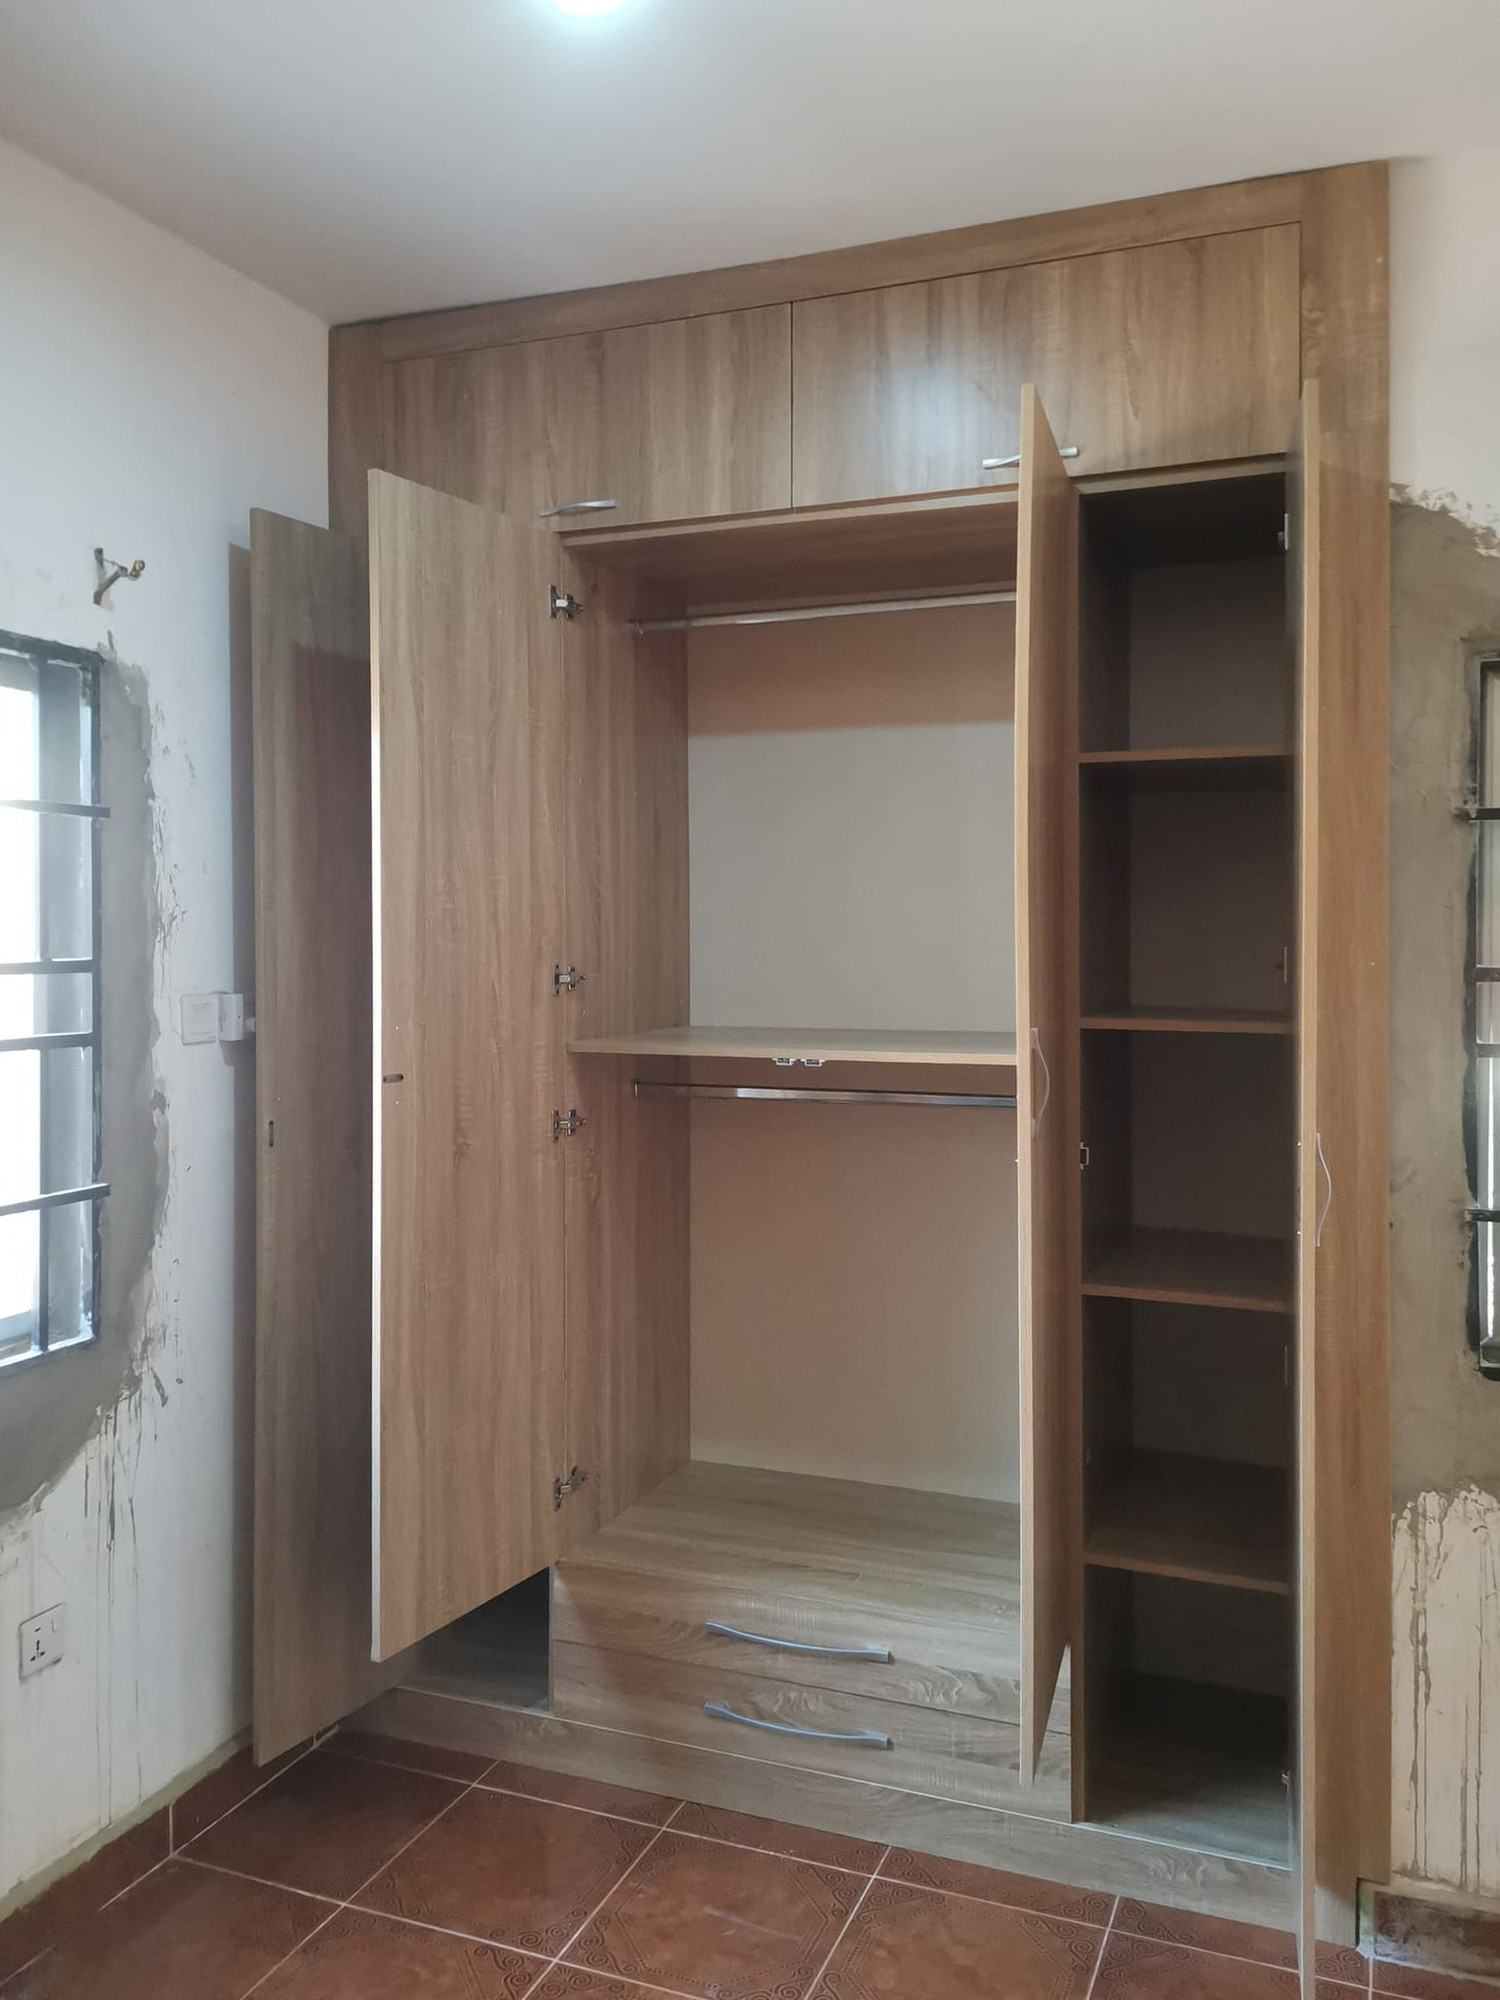
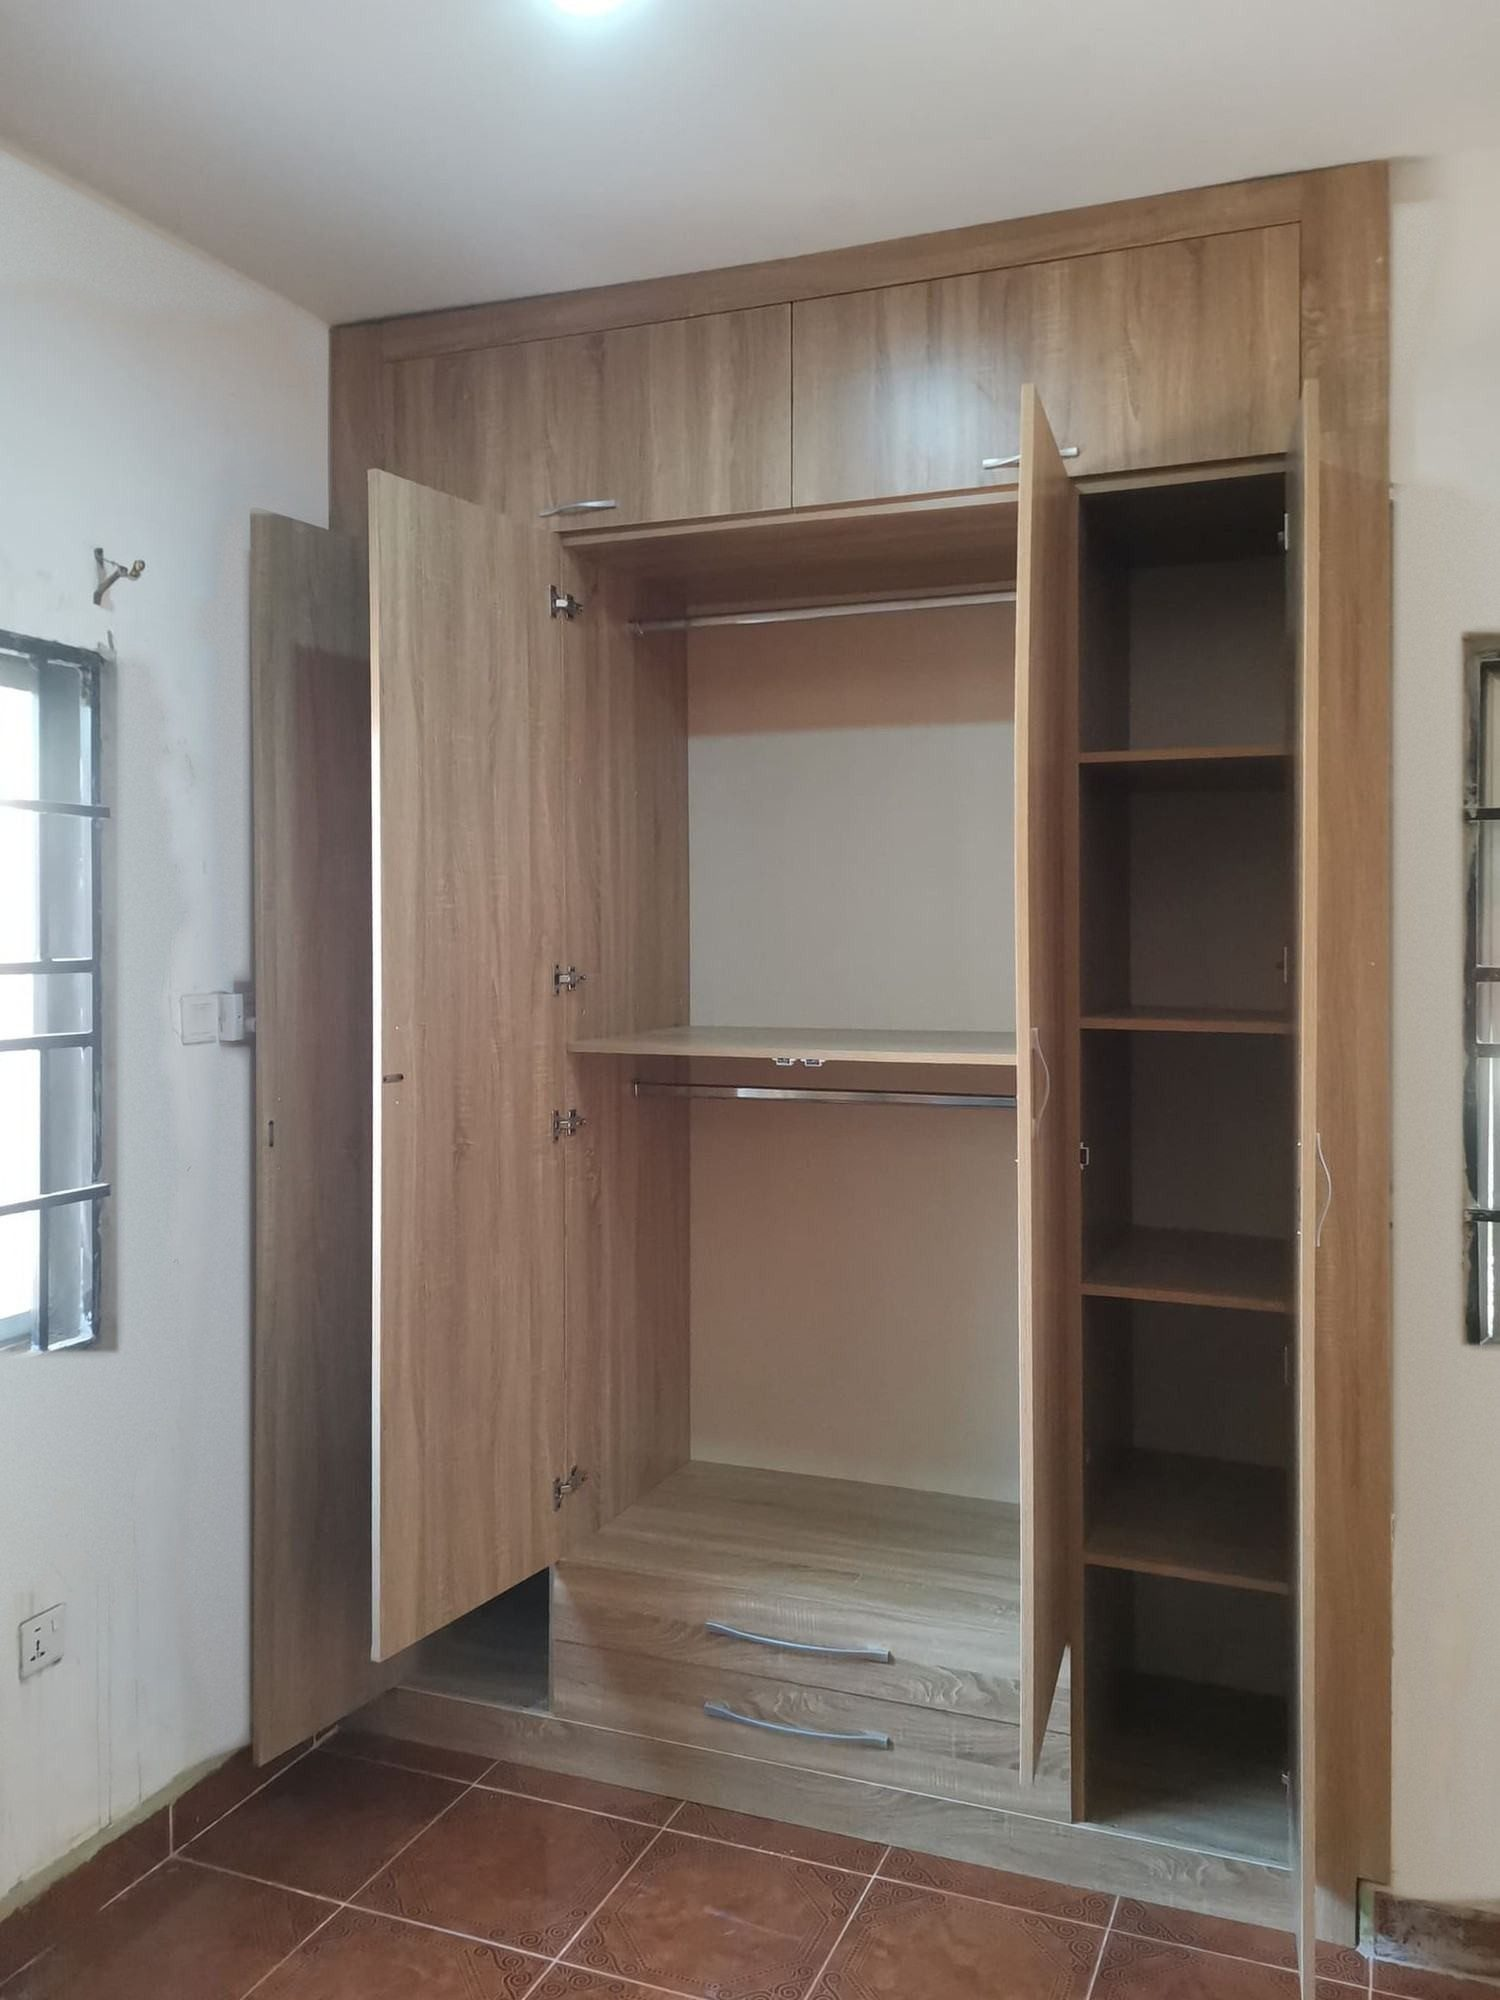
Use the repainted Agbogba wardrobe photo on the site

diff --git a/docs/design-review-plan.md b/docs/design-review-plan.md
@@ -85,4 +85,4 @@ Working well: the bone / espresso / walnut palette with brass used sparingly; re
 ### Wall repaint trial, Agbogba wardrobe (2026-11-14, owner asked to try it "with Adobe")
 - Adobe connector result: not usable for this. `image_select_by_prompt` could not separate the wall from the wardrobe (it selected both, twice) and found nothing for "plaster patches"; the connector has no generative fill or object removal, only flat colour fill. One photo was uploaded to the owner's Adobe storage as `photo-edit-test/wardrobe-wall-test.jpg`.
 - Done locally instead with `scripts/repaint-wall-agbogba.py` (numpy + OpenCV): two hand-drawn wall regions (window, switch, socket and curtain hook excluded), a smooth colour surface fitted to the clean painted wall, and anything darker or more coloured inside the region repainted with that surface plus light grain. The wardrobe, floor and ceiling are outside the regions and unchanged.
-- Output: `docs/review/agbogba-builtin-interior-trial.jpg`; side-by-side `docs/review/agbogba-wall-trial.jpg`. **Not applied to the site**; waiting for the owner's decision. The regions are specific to this photo; another photo needs its own.
+- Output: `docs/review/agbogba-builtin-interior-trial.jpg`; side-by-side `docs/review/agbogba-wall-trial.jpg`. **Applied to the site 2026-11-14** (owner: "Lets use it"): `images/projects/agbogba/agbogba-builtin-interior.jpg` is now the repainted version; the original is in git history. The regions are specific to this photo; another photo needs its own.
